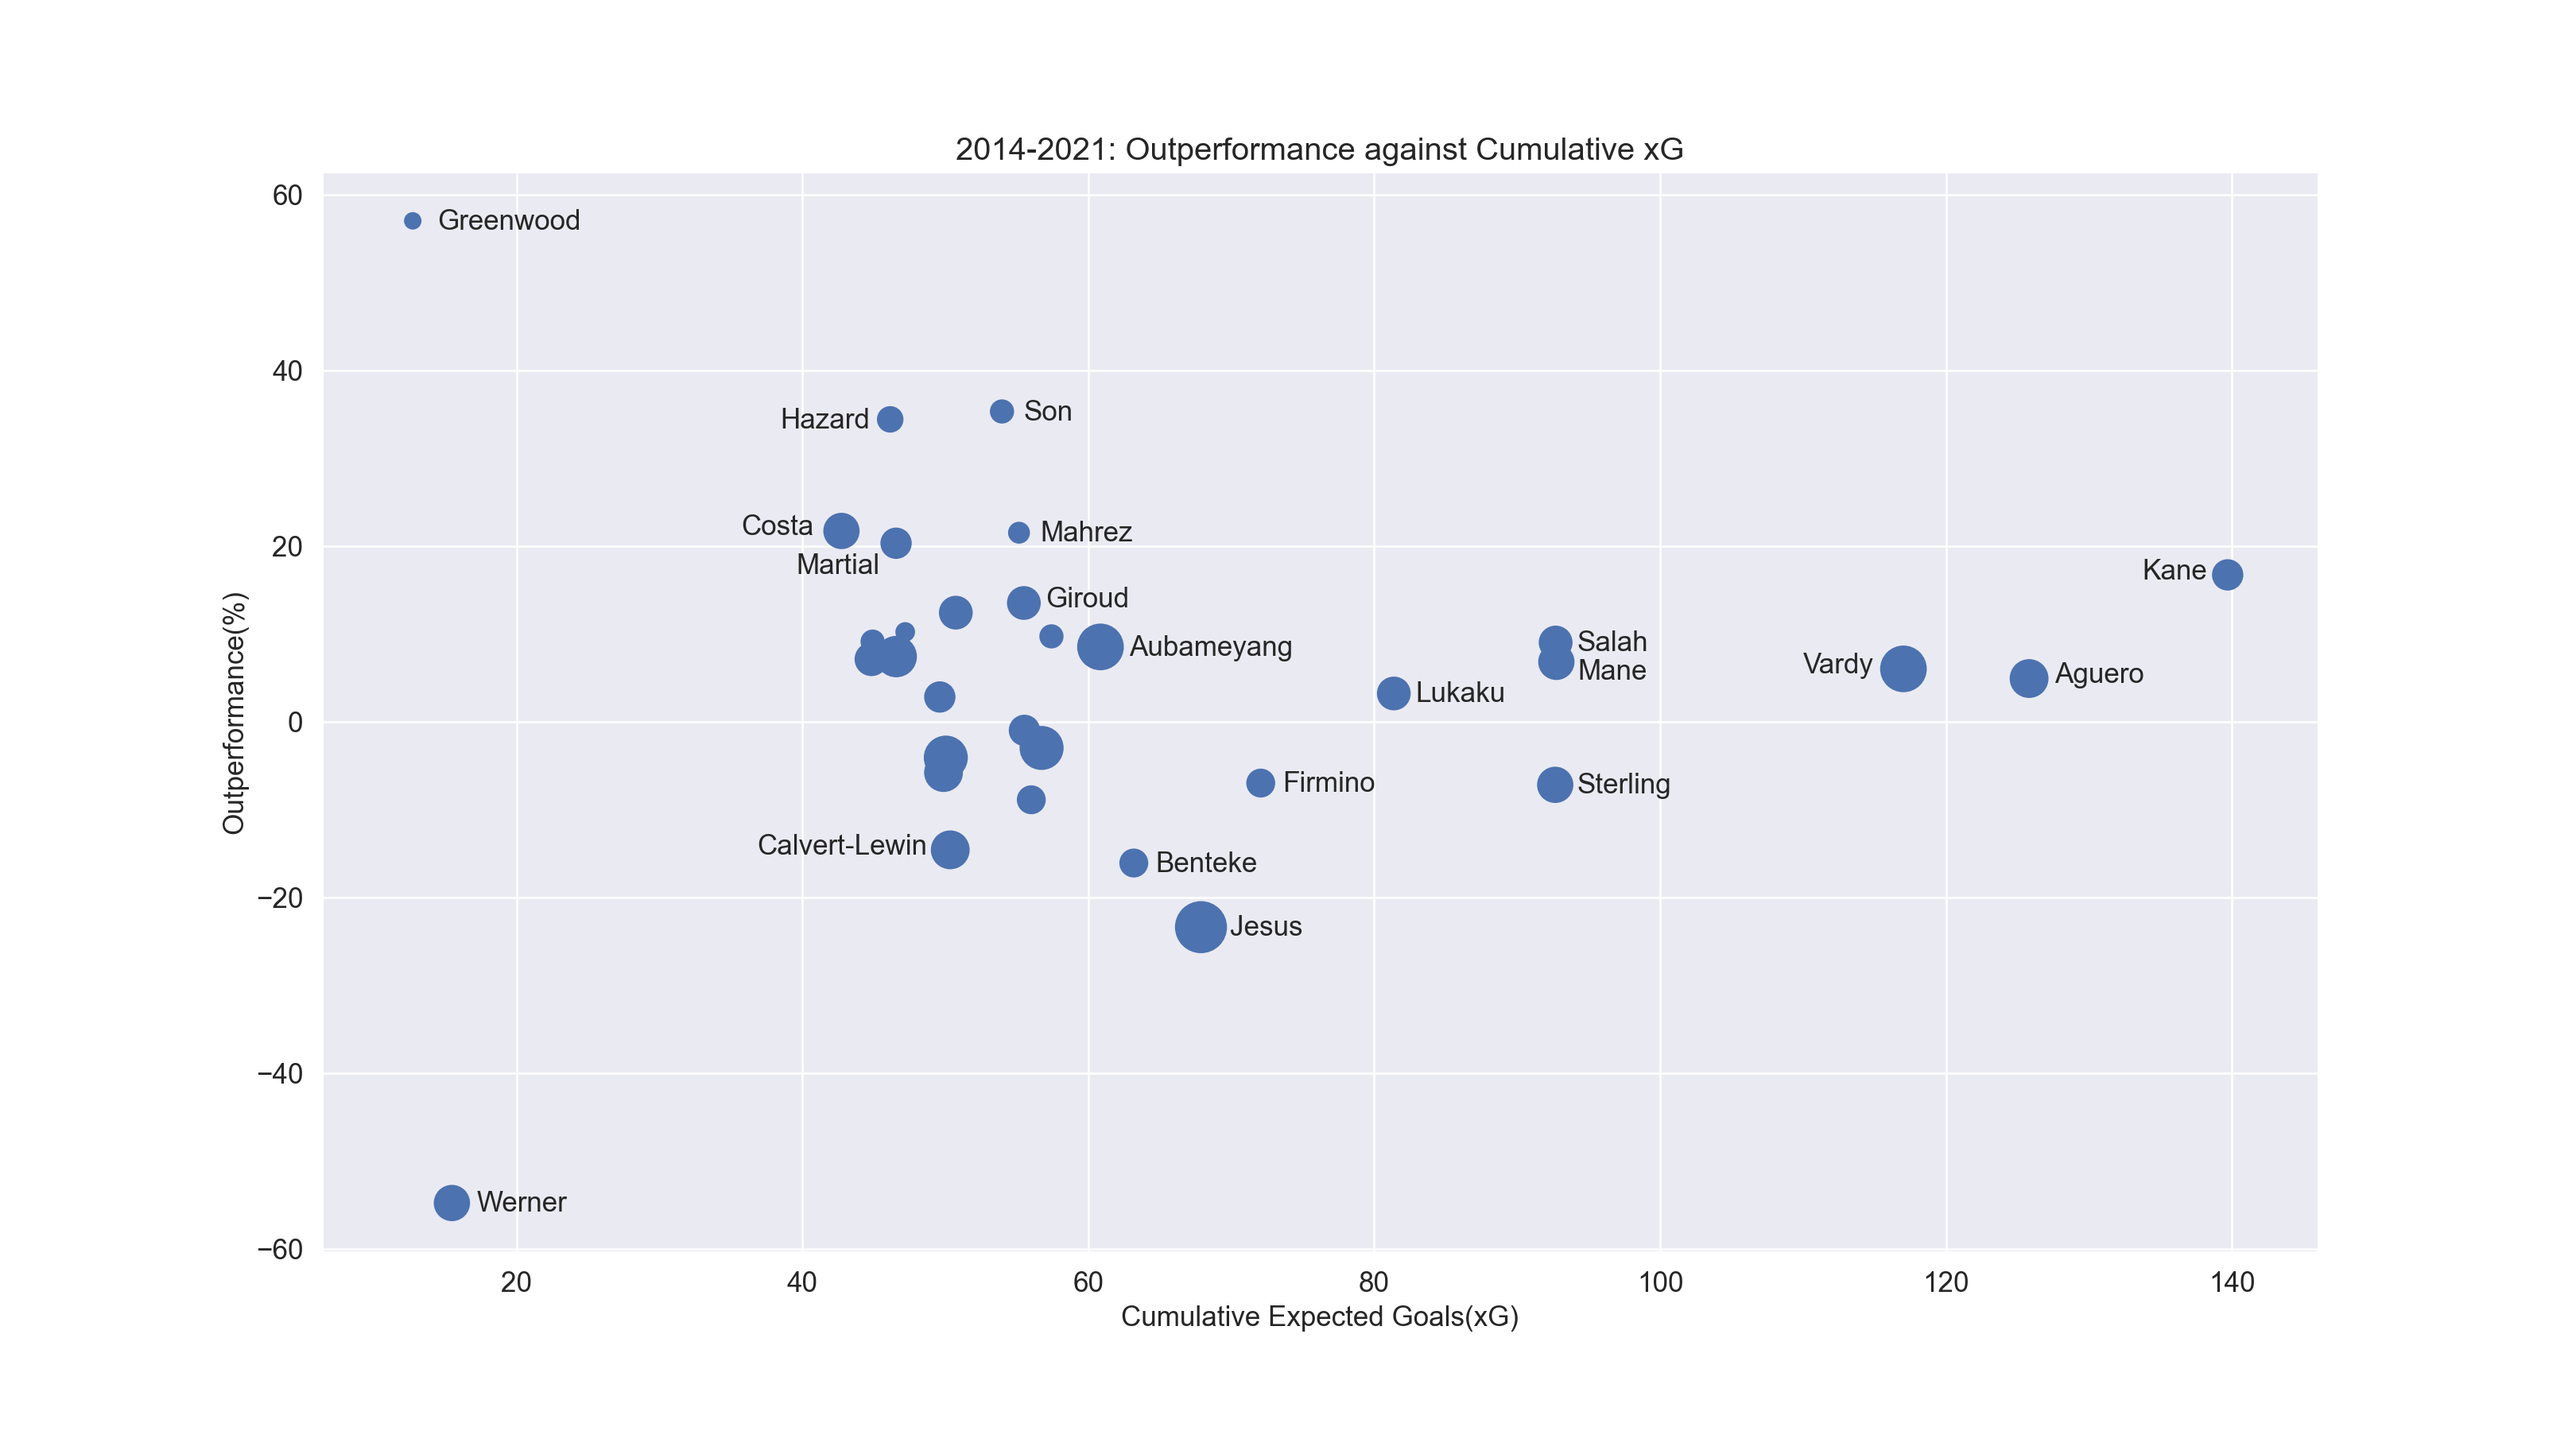
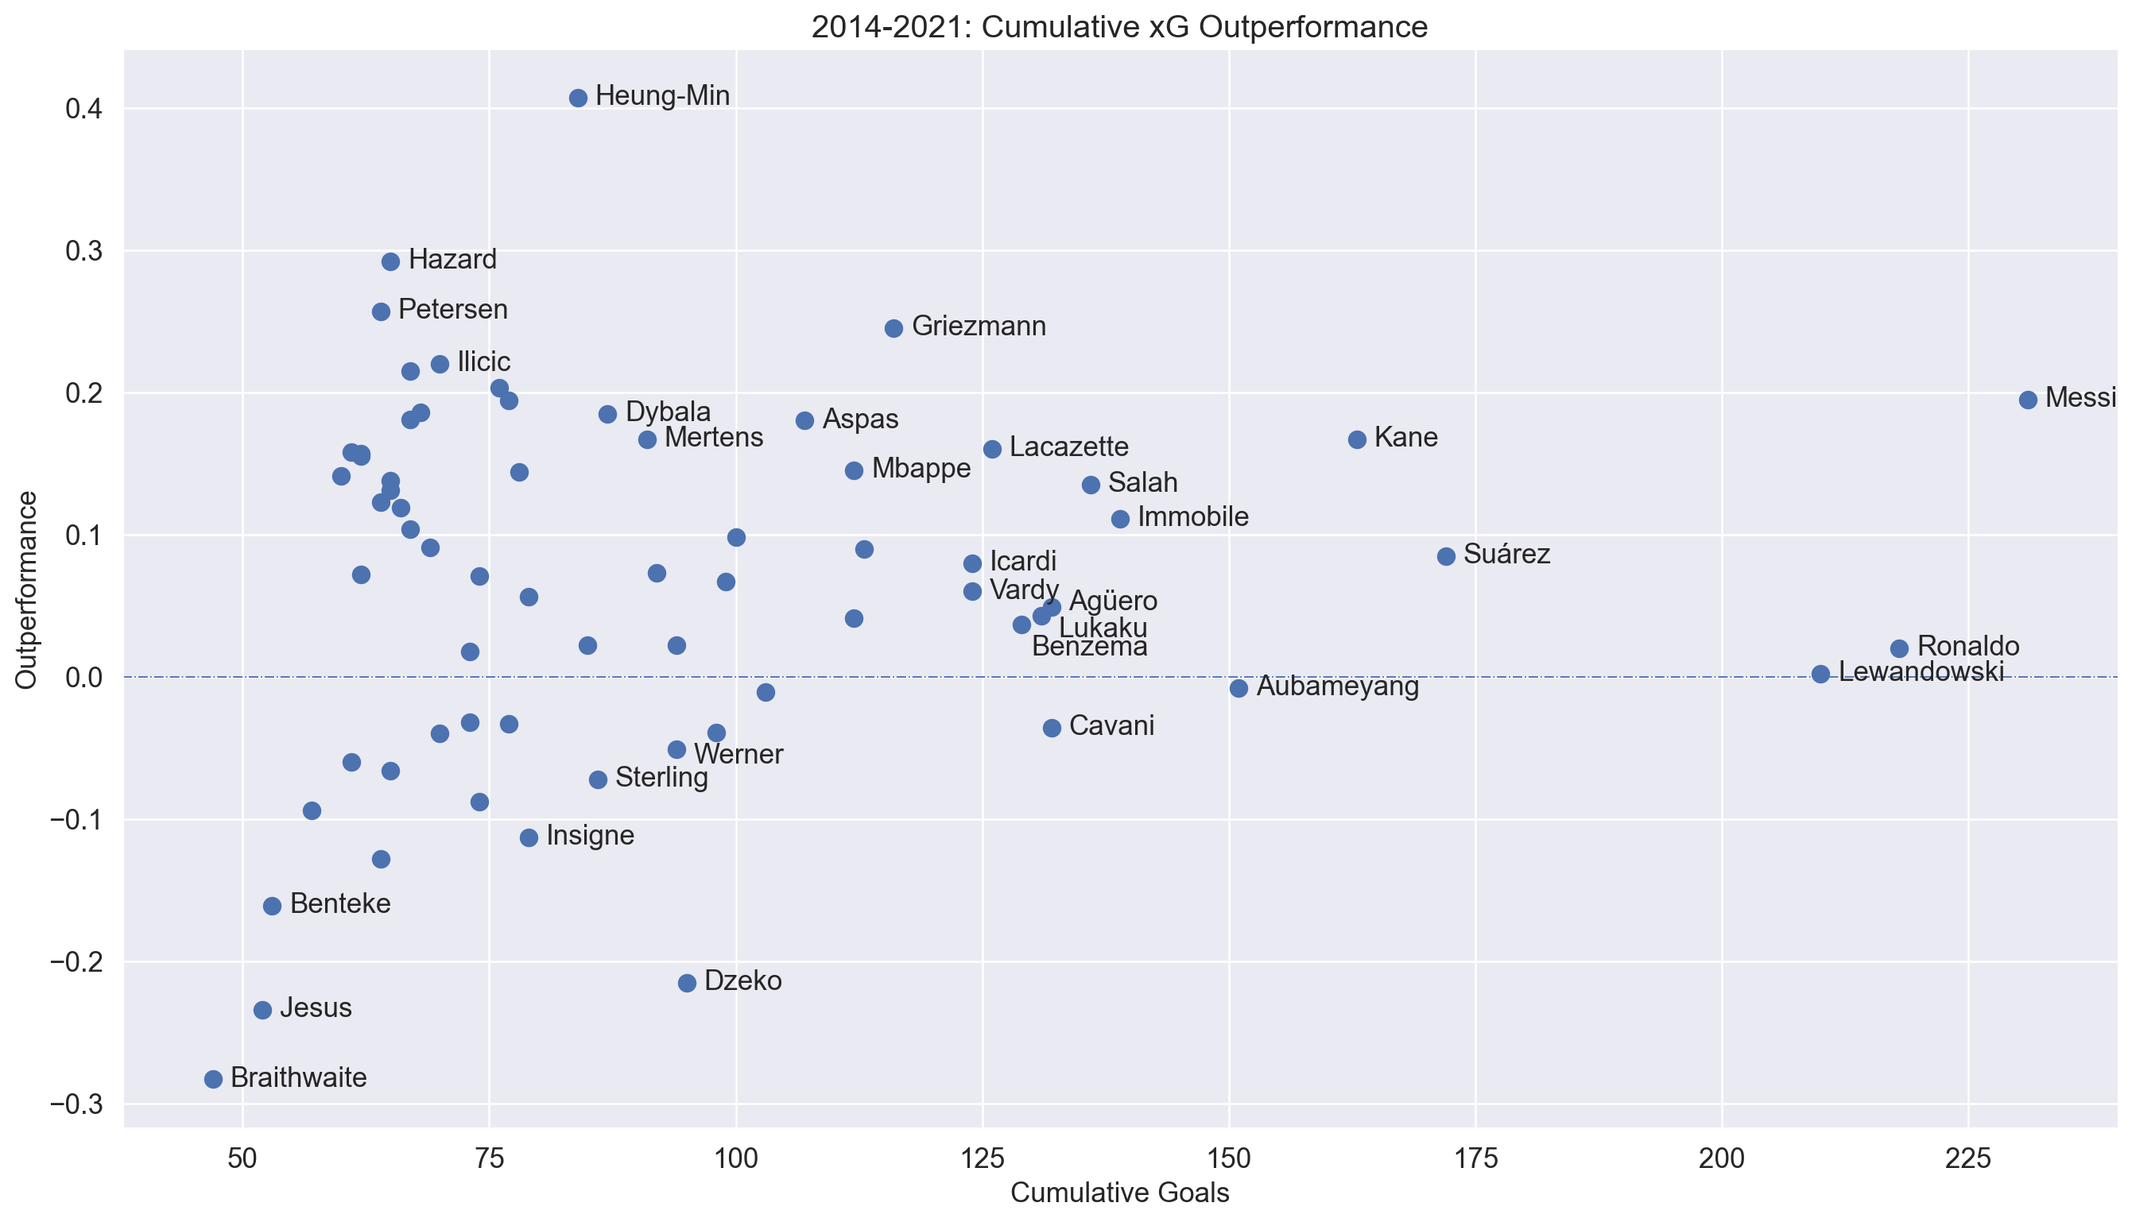
update

diff --git a/_posts/2021-10-07-xg-outperformance.md b/_posts/2021-10-07-xg-outperformance.md
@@ -1,58 +1,49 @@
 ---
 layout: post
-title: Evaluating PL Strikers with xG Outperformance
+title: The best and worst finisher, visualized
 tags: DS
 ---
 
-In recent years, the term _Expected Goals (xG)_ has risen to prominence in football analytics. Being a low scoring game, the goals scored in a football game can be heavily influenced by luck, form or any other random factors, making it less valuable for data analysis. xG, on the other hand, indicating what will happen on an average day, provides with a rather clear insight.
-
-The xG gives an expectation about if a shot would convert to a goal. For example, if a shot has an xG of 0.13, it means the shot has a 13% chance to score. The prediction thing is run by a deep learning model. The model learns from historical data and makes prediction by reviewing the result of shots taken from similar distance, angle, and defense pressure.
+In recent years, the term [Expected Goals (xG)](https://www.driblab.com/analysis-team/expected-goals-xg-what-it-is-and-how-it-works/) has risen to prominence in football analytics. Being a low scoring game, xG provides with a rather clear insight instead of the score itself. Today I would like to present a related metric called _xG outperformance_ to describe how good a player is at finishing.
 
 ## xG Outperformance
 
-_xG outperformance_ describes the percentile difference between the cumulative goals scored and the cumulative xG from a series of shots S.
+_xG outperformance(xGop)_ describes the value of scored goals when a player has shooting chances that worth 1 xG. It's related to the quotient between scored goals and expected goals from a group of shots taken. We could expect xGop to describe a player's finishing skill.
 
 ```
-xG outperformance = (cumulative goals from S / cumulative xG from S - 1) * 100%
+xG outperformance = (cumulative goals from shots / cumulative xG from shots) - 1
 ```
 
-We could use an example to further explain xG and xG outperformance: Robert Lewandowski had a total of 135 shots in season 2020/21, and the sum of each shot's xG is 32.08. It means Lewy is expected score 32.08 goals last season.
+We could use an example to further explain xGop: Robert Lewandowski had a total of 135 shots in season 2020/21, and the sum of each shot's xG is 32.08.
 
-In fact, Lewy scored 41 goals. Then we can calculate his xG outperformance in the last season: 27.8% (8.92 "extra" goals scored above expectation, and divided by 32.08).
+In fact, Lewy scored 41 goals, which makes his xGop 0.278 (score 0.278 "extra" goals for chances that worth 1 xG) that season.
 
-Obviously, higher xG outperformance means better scoring efficiency. If a player has a positive xG outperformance over a long period of time, his/her finishing ability should be better than league average.
+## Visualization
 
-## Data
-
-I have scrapped the seasonal xG data until now for all players that have scored more than 45 goals in the Premier League since 2014/15. The following plot presents the cumulative xG outperformance for each player included.
+I have scrapped the seasonal xG data until now for all players that have scored more than 60 goals (or 60 xG) in the top 5 european leagues since 2014/15. The following plot presents the cumulative xGop for each player included.
 
 ![Plot1](https://raw.githubusercontent.com/Jiaxigu/Jiaxigu.github.io/master/assets/images/2021-10-07-xg-outperformance.png)
 
-Also, you can find below the detailed ranking of each player. Mason Greenwood and Timo Werner are two undersampled(cumulative xG < 20) extreme values. 
+Also, you can find below the detailed ranking of each player.
 
-![Plot1](https://raw.githubusercontent.com/Jiaxigu/Jiaxigu.github.io/master/assets/images/2021-10-07-xg-violin.png)
+![Plot2](https://raw.githubusercontent.com/Jiaxigu/Jiaxigu.github.io/master/assets/images/2021-10-07-xg-violin.png)
 
 ## Player notes
 
-Son and Hazard are one league above everyone else. Out of these two, Hazard actaully looks much more amazing. He consistently outperforms xG, with left foot and right foot, inside and outside of the box. Don't forget he's not a pure striker - he dribbles, passes and cuts a lot. For Sonny, his long shot makes a big contribution to his xG outperformance score. He scored 17 goals outside of the box with just 6.3 xG!!
+Son Heung-min is absolutely THE finishing beast here. He has an xGop of 0.408, at least 0.115 higher than second-placed Eden Hazard. Also, his performance is consistent between seasons, and even after switching leagues. To dive a bit deeper, it's Son's long shot that makes him outstanding. He has 17 goals from outside of the box, with just 6.3 xG out of these shots.
 
-Kane's consistency is truly amazing. It's incredibly hard to stay just short of a 20% xG outperformance. Also, Martial is clearly mistreated by United fans. He is in fact the most reliable finisher at the Reds.
+Eden Hazard and Nils Petersen are the other two members in the 0.250-and-above club, and they both surprise me. Hazard is a world class playmaker on top of his finishing skill. Petersen is one of the few target-men out there who ranks atop.
 
-City's misery:
+Messi again proves that he's among, if not exactly, the GOAT out there. He ranks first in the goals scored AND has a xGop of 0.195. I can imagine it's exponentially harder to keep a high xGop as the cumulative goals or xG goes up. People just can't find a way to limit Messi. Harry Kane has comparably both quality and quantity at bank. But he just doesn't come close.
 
-TBA
+On the other side of the table, Braithwaite comes last but I haven't seen any of his games at Ligue 1. But statistics show that Braithwaite is awful in almost EVERY season.
 
-Finally, two cents on Greenwood and Werner:
-
-It's universally acknowledged that undersampled, extreme values are not consistent. The stats will converge as they pick up games and shots. I also took a look at Werner's stats at Leipzig, and they are just fine! So, Werner will be fine. OR SOLD BY CHELSEA, HAHA.
+Manchester City is spearheaded by two big underperformers, Jesus and Sterling, with an xGop of -0.234 and -0.072 respectively. City (or Guardiola) is omnipresent in several big xG upsets. It makes me wonder if it's Guardiola's problem or the poor players'.
 
 ## Further Notes
 
-First of all, xG performance reflects only how clinical a player is. It doesn't correlate well with the player's ability to create chances.
+xG performance reflects only how clinical a player is. It doesn't correlate well with the player's ability to create chances. So don't judge.
 
-Also, this model is overshadowed by the lack of data. I only managed to find seasonal data, while the match-specific data are behind a pay wall. As a result, I could only calculate mean value, instead of value distribution and confidence interval, for each player. 
-
-I also noticed a vague anti-correlation between average xG per shot and xG outperformance. It seems that players are more likely to outperform when they do more low-xG shots, such as freekicks and long-range shots. I would like to check it out as soon as I'm guaranteed with more data.
 
 ## Reference
 
